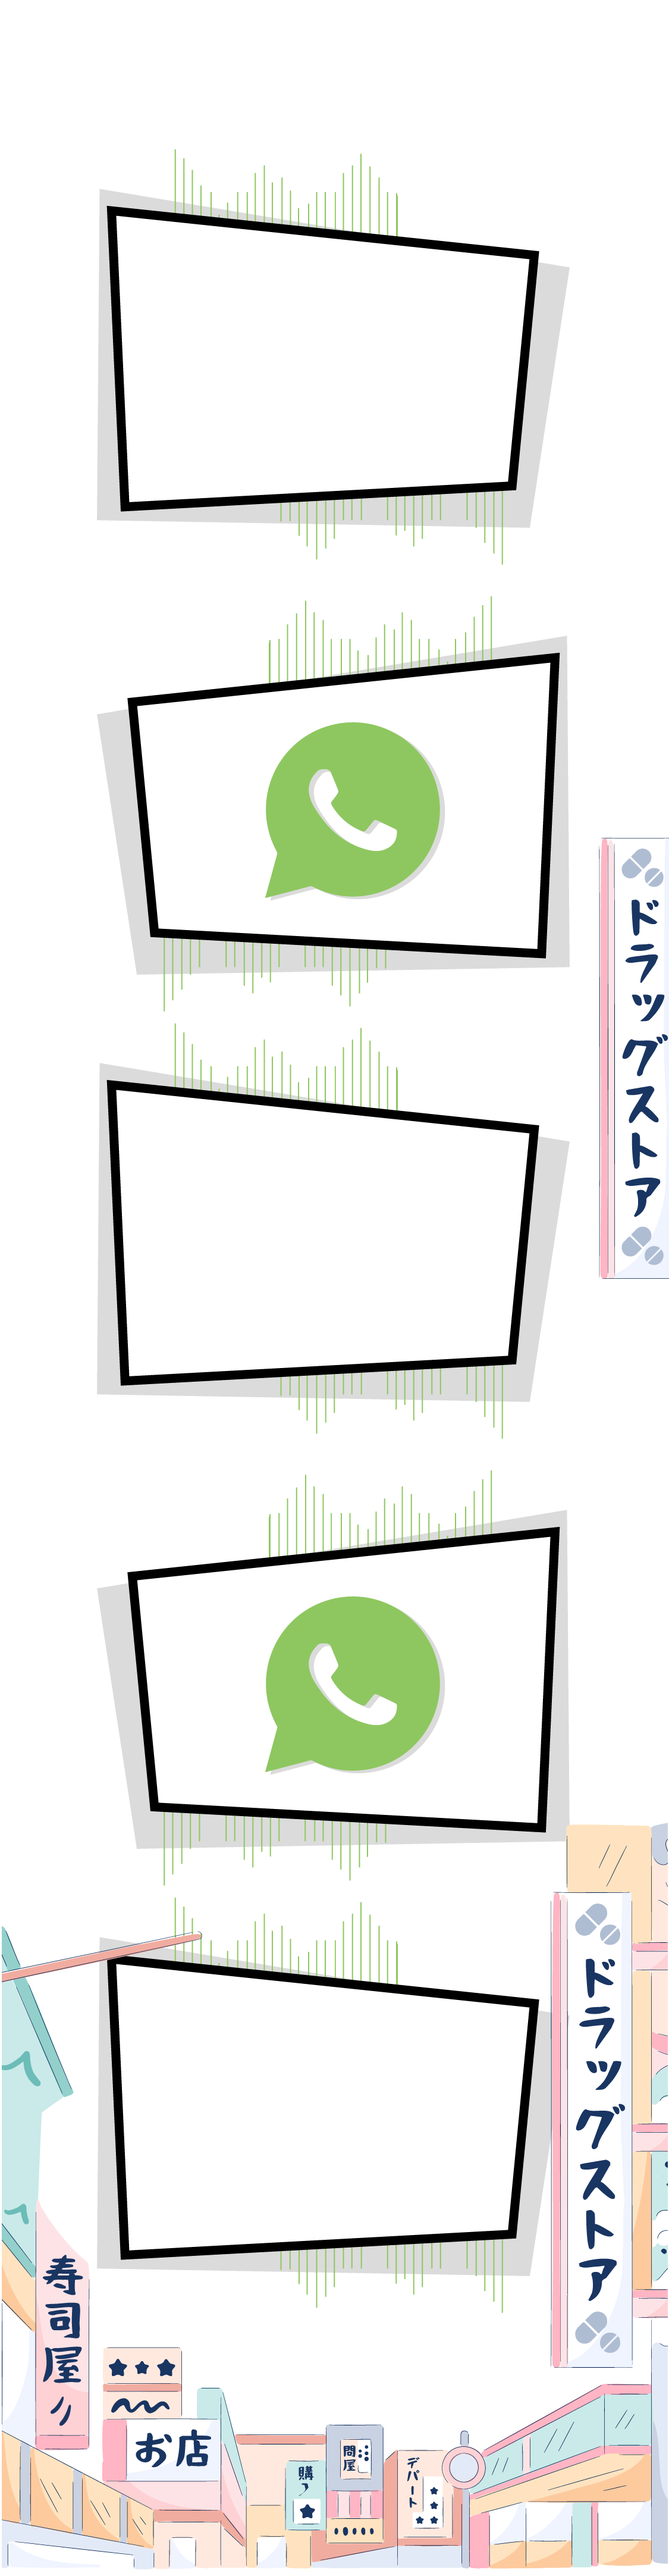
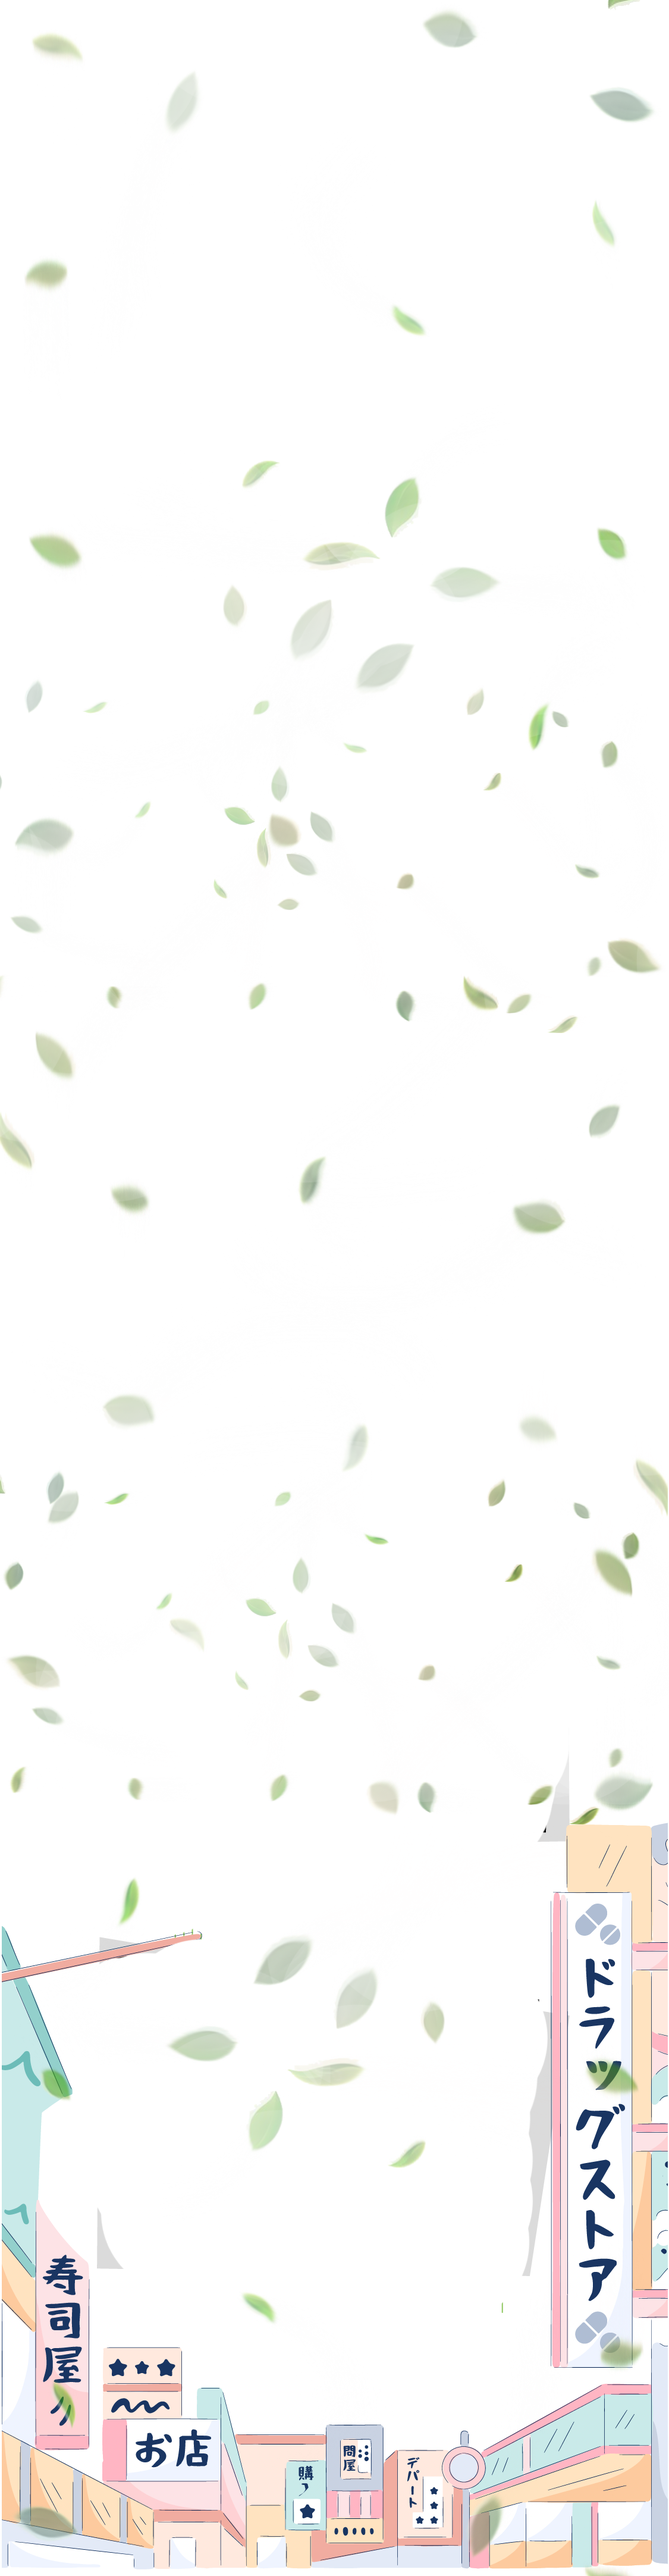
parallax

diff --git a/src/Components/Delivery/Delivery.jsx b/src/Components/Delivery/Delivery.jsx
@@ -1,8 +1,8 @@
 import React, { useState, useEffect } from "react";
-import image from "./parallax.svg"
-import "./Parallax.css"
+import image from "./delivery-uwu.png"
+import "./Delivery.css"
 
-function ParallaxContent() {
+function Delivery() {
   const [scrollY, setScrollY] = useState(0);
 
   useEffect(() => {
@@ -19,16 +19,17 @@ function ParallaxContent() {
 
   const contentStyle = {
     position: "absolute",
-    top: "120vh",
+    top: "100vh",
     left: 0,
     width: "100%",
-    transform: `translateY(${scrollY * 0.4}px)`,
-    pointerEvents: "none"
+    transform: `translateY(${scrollY * 0.3}px)`,
   };
 
   return <div style={contentStyle}>
-    <img className="img-parallax" src={image} alt="img-parallax"/>
+    <a href="https://api.whatsapp.com/send/?phone=%2B5492612121551&text&type=phone_number&app_absent=0">
+      <img className="img-Delivery" src={image} alt="img-Delivery" />
+    </a>
   </div>;
 }
 
-export default ParallaxContent;
+export default Delivery;

diff --git a/src/App.js b/src/App.js
@@ -2,12 +2,15 @@ import './App.css';
 import Nav from './Components/Nav/Nav';
 import img from './Components/Nav/uwu.png';
 import ParallaxContent from './Components/Parallax/Parallax';
+import Delivery from './Components/Delivery/Delivery';
 
 function App() {
   return (
     <div className="App">
       <Nav />
+      <Delivery />
       <ParallaxContent />
+
       <img className='img-mock' src={img} alt="img-app"></img>
       
     </div>

diff --git a/src/Components/Parallax/Parallax.css b/src/Components/Parallax/Parallax.css
@@ -1,3 +1,5 @@
 .img-parallax{
     width: 100%;
+    filter: blur(5px);
+    pointer-events: none;
 }

diff --git a/src/Components/Delivery/Delivery.css b/src/Components/Delivery/Delivery.css
@@ -1,0 +1,3 @@
+.img-Delivery{
+    width: 100%;
+}
